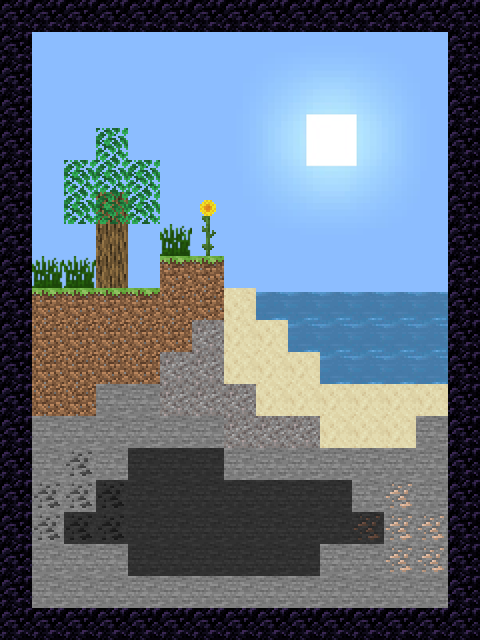
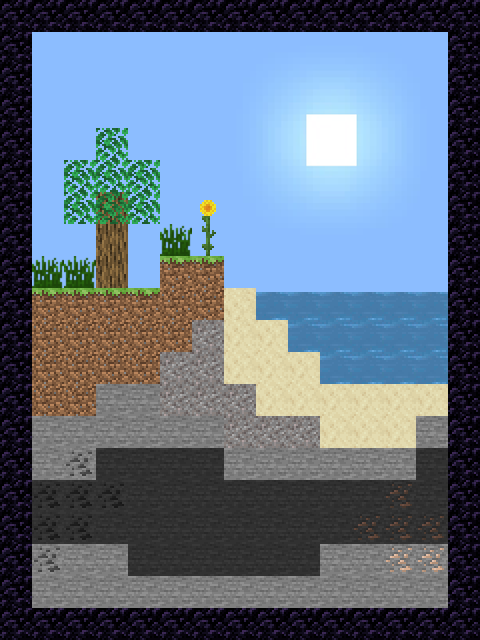
Added obsidian border, updated bat behavior

Changed region(s): [[0.7188, 0.6875, 0.9375, 0.875], [0.0625, 0.6875, 0.2812, 0.9062], [0.2188, 0.8125, 0.25, 0.8438]]

diff --git a/src/scenes/Play.js b/src/scenes/Play.js
@@ -37,13 +37,14 @@ class Play extends Phaser.Scene {
         // custom minecraft background
         this.add.tileSprite(0, 0, game.config.width, game.config.height, 'background').setOrigin(0, 0);
 
-        // add egg (player 1)
-        this.p1Egg = new Egg(this, game.config.width/2, game.config.height - borderUISize - borderPadding, 'egg').setOrigin(0.5, 0).setScale(this.eggScale);
-
         // add bee
         this.bee01 = new Bee(this, game.config.width + 20, borderUISize * 3.5, 'bee', 0, 30).setOrigin(0, 0).setScale(this.beeScale);
-        // add bat
+        // add bats
         this.bat01 = new Bat(this, game.config.width + 20, borderUISize * 11, 'bat', 0, -5).setOrigin(0, 0).setScale(this.batScale);
+        this.bat02 = new Bat(this, 20, borderUISize * 11, 'bat', 0, -5).setOrigin(0, 0).setScale(this.batScale);
+        if (game.settings.bats == 3) {
+            this.bat03 = new Bat(this, game.config.width/2, borderUISize * 11, 'bat', 0, -5).setOrigin(0, 0).setScale(this.batScale);
+        }
         //add cod
         this.cod01 = new Cod(this, game.config.width - 20, borderUISize * 7, 'cod', 0, 20).setOrigin(0, 0).setScale(this.codScale);
         //add rabbit
@@ -54,6 +55,12 @@ class Play extends Phaser.Scene {
         // this.rect1.isFilled = false;
         // this.rect1.isStroked = true;
         // this.rect1.setStrokeStyle(2, 0xFF0000, 1);
+
+        //add bg border
+        this.add.tileSprite(0, 0, game.config.width, game.config.height, 'border').setOrigin(0, 0);
+
+        // add egg (player 1)
+        this.p1Egg = new Egg(this, game.config.width/2, game.config.height - borderUISize - 5, 'egg').setOrigin(0.5, 0).setScale(this.eggScale);
         
         // define keys
         keyF = this.input.keyboard.addKey(Phaser.Input.Keyboard.KeyCodes.F);
@@ -145,7 +152,11 @@ class Play extends Phaser.Scene {
             this.p1Egg.update();    // update egg sprite
 
             this.bee01.update();    // update bee
-            this.bat01.update();    // update bat
+            this.bat01.update();    // update bats
+            this.bat02.update();
+            if (game.settings.bats == 3) {
+                this.bat03.update();
+            }
             this.cod01.update();    // update cod
             this.rabbit01.update();    // update rabbit
         } 
@@ -158,6 +169,16 @@ class Play extends Phaser.Scene {
         if (this.checkCollision(this.p1Egg, this.bat01, this.batScale)) {
             this.p1Egg.reset();
             this.entityExplode(this.bat01, 'explosion', 'explode', 'sfx_bat_death');
+        }
+        if (this.checkCollision(this.p1Egg, this.bat02, this.batScale)) {
+            this.p1Egg.reset();
+            this.entityExplode(this.bat02, 'explosion', 'explode', 'sfx_bat_death');
+        }
+        if (game.settings.bats == 3) {
+            if (this.checkCollision(this.p1Egg, this.bat03, this.batScale)) {
+                this.p1Egg.reset();
+                this.entityExplode(this.bat03, 'explosion', 'explode', 'sfx_bat_death');
+            }
         }
         //check cod collisions
         if (this.checkCollision(this.p1Egg, this.cod01, this.codScale)) {

diff --git a/src/scenes/Menu.js b/src/scenes/Menu.js
@@ -12,6 +12,8 @@ class Menu extends Phaser.Scene {
         this.load.audio('sfx_cod_death', './assets/cod_death.wav');
         this.load.audio('sfx_rabbit_death', './assets/rabbit_death.wav');
 
+        // load UI images
+        this.load.image('border', './assets/EggPatrolBorder.png');
 
         // load minecraft font
         loadFont("minecraft1", "./assets/Minecrafter.Reg.ttf");
@@ -38,6 +40,7 @@ class Menu extends Phaser.Scene {
         menuConfig.backgroundColor = '#333333';
         menuConfig.color = '#FFFFFF';
         this.add.text(game.config.width/2, game.config.height/2 + borderUISize + borderPadding + 40, 'Press ← for Novice\nor → for Expert', menuConfig).setOrigin(0.5);
+        this.add.tileSprite(0, 0, game.config.width, game.config.height, 'border').setOrigin(0, 0);
         // define keys
         keyLEFT = this.input.keyboard.addKey(Phaser.Input.Keyboard.KeyCodes.LEFT);
         keyRIGHT = this.input.keyboard.addKey(Phaser.Input.Keyboard.KeyCodes.RIGHT);
@@ -47,7 +50,8 @@ class Menu extends Phaser.Scene {
           // easy mode
           game.settings = {
             entitySpeed: 2,
-            gameTimer: 60000    
+            gameTimer: 60000,
+            bats: 2    
           }
           this.sound.play('sfx_MC_select');
           this.scene.start('playScene');    
@@ -56,7 +60,8 @@ class Menu extends Phaser.Scene {
           // hard mode
           game.settings = {
             entitySpeed: 4,
-            gameTimer: 45000    
+            gameTimer: 45000,    
+            bats: 3
           }
           this.sound.play('sfx_MC_select');
           this.scene.start('playScene');    

diff --git a/src/prefabs/Bat.js b/src/prefabs/Bat.js
@@ -15,15 +15,27 @@ class Bat extends Phaser.GameObjects.Sprite {
     }
 
     update() {
-        // move bat left
-        this.x -= this.moveSpeed;
-        // wrap around from left to right edge
-        if(this.x <= 0 - this.width) {
-            this.reset();
+        // move bat
+        if(this.x > -100 && this.facingLeft) {
+            this.x -= this.moveSpeed;
+        }
+        else if (this.x <= -100 || !this.facingLeft) {
+            this.flipX = true;
+            this.facingLeft = false;
+            this.x += this.moveSpeed;
+            if(this.x > 500) {
+                this.facingLeft = true;
+                this.flipX = false;
+                this.reset();
+            }
         }
     }
     // position reset
     reset() {
-        this.x = game.config.width;
+        if(Math.random() < 0.50) {
+            this.x = game.config.width;
+        } else {
+            this.x = -100;
+        }
     }
 }

diff --git a/src/prefabs/Egg.js b/src/prefabs/Egg.js
@@ -36,6 +36,6 @@ class Egg extends Phaser.GameObjects.Sprite {
     reset() {
         this.sfxEggPop.play();  // play sfx
         this.isFiring = false;
-        this.y = game.config.height - borderUISize;
+        this.y = game.config.height - borderUISize - 5;
     }
 }
